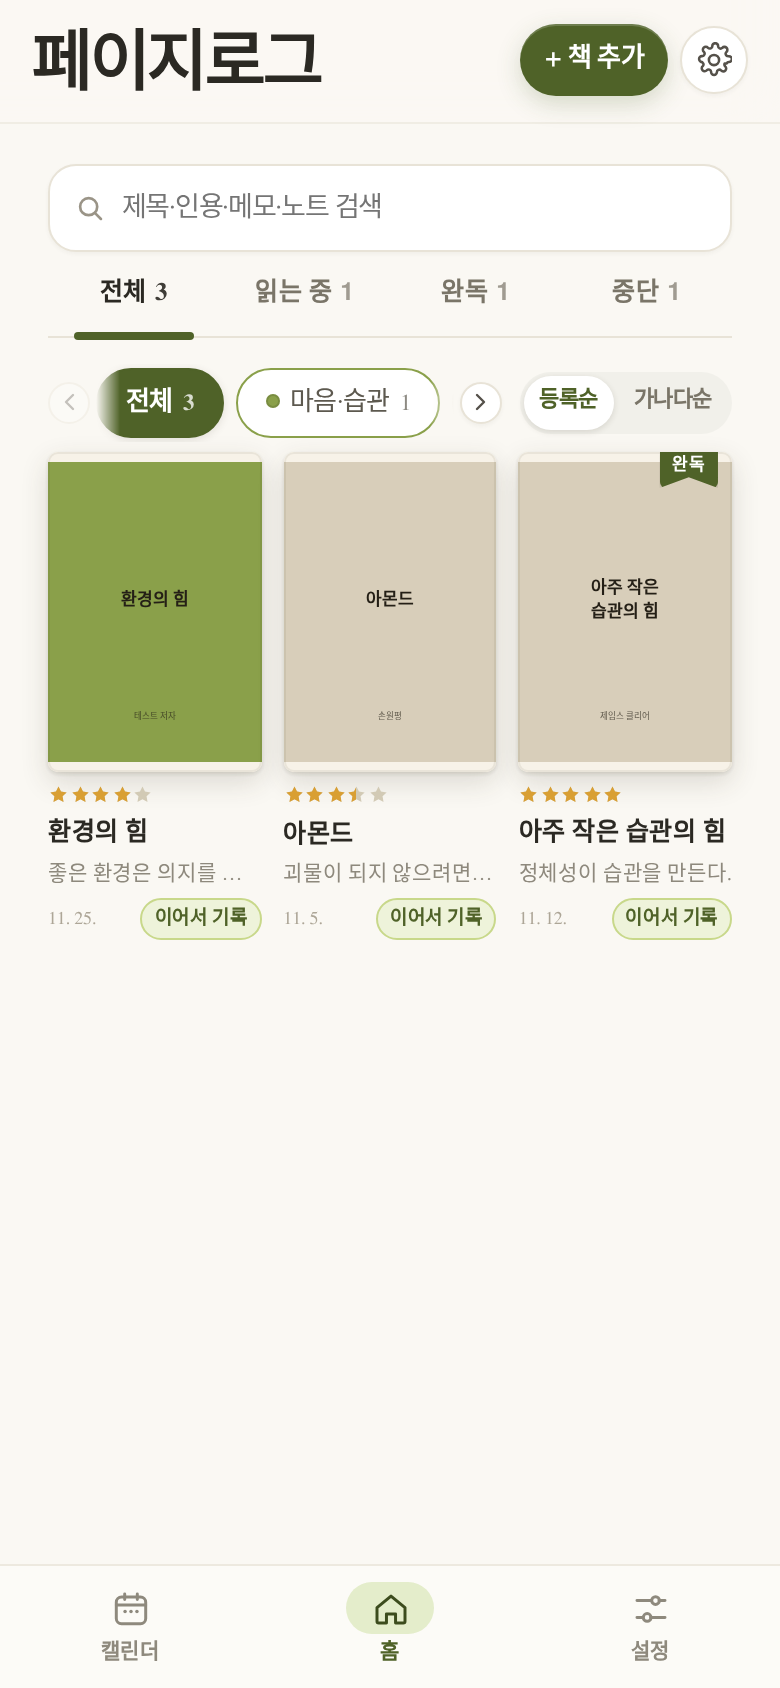
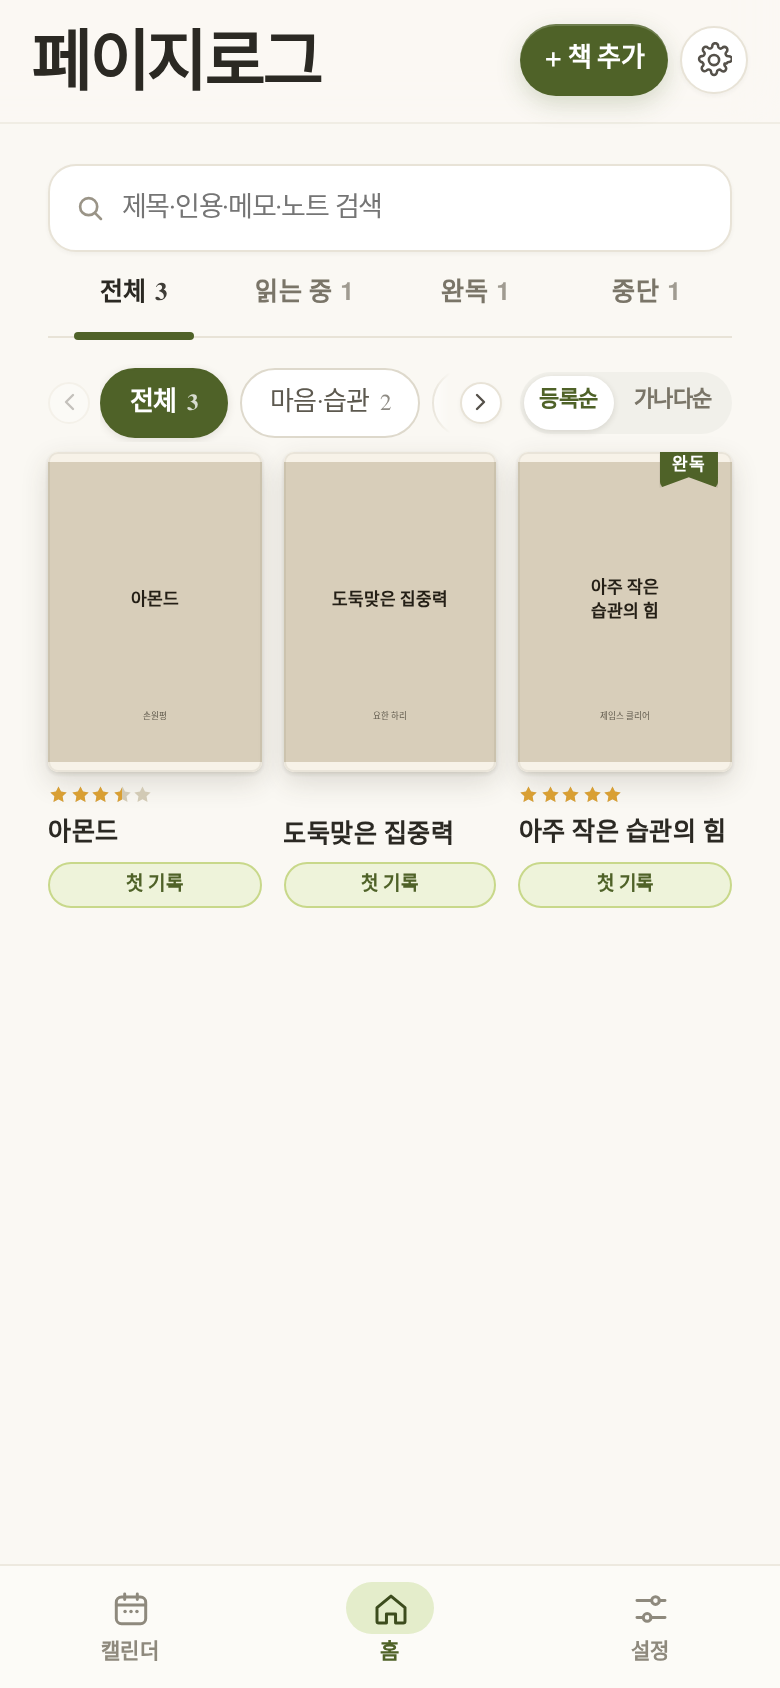
서재 카테고리 칩을 왼쪽 끝에 붙여 정렬: flex-start 고정·칩 축소 방지, 목록이 바뀌면 스크롤을 왼쪽 끝으로 되돌리고 양끝 마스크·화살표 간격 정리

Changed region(s): [[0.0615, 0.2156, 0.5846, 0.5545], [0.3692, 0.4621, 0.9538, 0.5545], [0.4308, 0.3389, 0.5846, 0.3697]]

diff --git a/index.html b/index.html
@@ -216,13 +216,22 @@ h1.app-title{margin:0;font-size:33px;line-height:1.05;font-weight:800;letter-spa
   .seg-btn{font-size:12.5px;gap:4px;padding:8px 1px 11px}
   .seg-btn::after{max-width:60px;height:3.5px}
 }
-.shelf-bar{display:flex;align-items:center;gap:9px;margin-top:13px}
-.chips-wrap{display:flex;align-items:center;gap:3px;flex:1 1 auto;min-width:0}
-.chips{display:flex;align-items:center;gap:8px;overflow-x:auto;overscroll-behavior-x:contain;scroll-behavior:smooth;
-  padding:2px 0;scrollbar-width:none;-ms-overflow-style:none;flex:1 1 auto;min-width:0}
+.shelf-bar{display:flex;align-items:center;justify-content:flex-start;gap:9px;margin-top:13px}
+.chips-wrap{display:flex;align-items:center;justify-content:flex-start;gap:5px;flex:1 1 auto;min-width:0}
+/* 칩은 언제나 왼쪽 끝(첫 칩 = 전체)에서부터 차곡차곡 쌓이고, 넘칠 때만 오른쪽으로 늘어납니다 */
+.chips{display:flex;align-items:center;justify-content:flex-start;align-content:flex-start;gap:8px;direction:ltr;
+  overflow-x:auto;overflow-y:hidden;overscroll-behavior-x:contain;
+  padding:2px 0;margin:0;scroll-padding-inline:0;scroll-behavior:auto;
+  scrollbar-width:none;-ms-overflow-style:none;flex:1 1 auto;min-width:0}
+.chips>.chip{flex:0 0 auto;margin-inline:0}
 .chips::-webkit-scrollbar{display:none;width:0;height:0}
-.chips.is-scroll{-webkit-mask-image:linear-gradient(90deg,transparent 0,#000 12px,#000 calc(100% - 12px),transparent 100%);
-  mask-image:linear-gradient(90deg,transparent 0,#000 12px,#000 calc(100% - 12px),transparent 100%)}
+/* 넘칠 때만 오른쪽 끝을 흐리게 — 스크롤이 0이면 왼쪽 끝은 절대 흐려지지 않습니다 */
+.chips.is-scroll{-webkit-mask-image:linear-gradient(90deg,#000 0,#000 calc(100% - 14px),transparent 100%);
+  mask-image:linear-gradient(90deg,#000 0,#000 calc(100% - 14px),transparent 100%)}
+.chips.is-scroll.from-left{-webkit-mask-image:linear-gradient(90deg,transparent 0,#000 12px,#000 calc(100% - 14px),transparent 100%);
+  mask-image:linear-gradient(90deg,transparent 0,#000 12px,#000 calc(100% - 14px),transparent 100%)}
+.chips.is-scroll.at-end{-webkit-mask-image:linear-gradient(90deg,transparent 0,#000 12px,#000 100%);
+  mask-image:linear-gradient(90deg,transparent 0,#000 12px,#000 100%)}
 .chips-nav{flex:0 0 auto;display:none;place-items:center;width:21px;height:21px;padding:0;border-radius:50%;
   background:var(--paper);border:1px solid var(--line);color:var(--ink-2);box-shadow:var(--shadow-sm);
   transition:opacity .15s,background .15s}
@@ -3432,18 +3441,66 @@ function renderSortUI(){
 }
 function curBook(){ for(var i=0;i<db.books.length;i++){ if(db.books[i].id===ui.currentId) return db.books[i]; } return null; }
 
-/* 카테고리 칩 가로 넘김 — 넘칠 때만 양끝 화살표 */
+/* 카테고리 칩 가로 넘김 — 넘칠 때만 양끝 화살표, 칩은 항상 왼쪽 끝에서 시작 */
+function chipsMaxScroll(c){ return Math.max(0, (c.scrollWidth||0) - (c.clientWidth||0)); }
 function updateChipsNav(){
   var chips=$('#categoryChips'), prev=$('#chipsPrev'), next=$('#chipsNext');
   if(!chips || !prev || !next) return;
-  var max=chips.scrollWidth-chips.clientWidth;
+  var max=chipsMaxScroll(chips);
   var on=max>1;
+  if(!on && chips.scrollLeft!==0) chips.scrollLeft=0;
+  var atStart=chips.scrollLeft<=1;
+  var atEnd=!on || chips.scrollLeft>=max-1;
   prev.classList.toggle('show',on);
   next.classList.toggle('show',on);
   chips.classList.toggle('is-scroll',on);
+  chips.classList.toggle('from-left',on && !atStart);
+  chips.classList.toggle('at-end',on && atEnd);
   if(!on) return;
-  prev.disabled=chips.scrollLeft<=1;
-  next.disabled=chips.scrollLeft>=max-1;
+  prev.disabled=atStart;
+  next.disabled=atEnd;
+}
+/* 첫 칩이 왼쪽 끝에 딱 붙어 있는지 확인하고, 어긋나면 스크롤을 0으로 되돌립니다 */
+function healChipsLeft(){
+  var c=$('#categoryChips');
+  if(!c) return;
+  if(c.scrollLeft>1) return;
+  var f=c.querySelector('.chip');
+  if(!f) return;
+  var off=f.getBoundingClientRect().left - c.getBoundingClientRect().left;
+  /* 스크롤은 0인데 첫 칩이 밀려 그려진 경우(모바일 스크롤 레이어 잔상) 한 번 다시 잡아 줍니다 */
+  if(off>1.5 && off<300){
+    c.scrollLeft=1;
+    c.scrollLeft=0;
+  }
+}
+function settleChipsScroll(){
+  var c=$('#categoryChips');
+  if(!c) return;
+  var max=chipsMaxScroll(c), sl=c.scrollLeft;
+  if(max<=1){ if(sl!==0) c.scrollLeft=0; }
+  else if(sl<0) c.scrollLeft=0;
+  else if(sl>max+1) c.scrollLeft=max;
+  if(sl<=1) healChipsLeft();
+  updateChipsNav();
+}
+/* 칩 목록을 다시 그린 뒤: 왼쪽 끝에서 시작 → 선택된 칩이 화면 밖이면 필요한 만큼만 보여 줍니다 */
+function restoreChipsView(){
+  var c=$('#categoryChips');
+  if(!c) return;
+  if(c.scrollLeft!==0) c.scrollLeft=0;
+  var act=c.querySelector('.chip.active');
+  var max=chipsMaxScroll(c);
+  if(act && max>1){
+    var l=act.offsetLeft, r=l+act.offsetWidth, vw=c.clientWidth;
+    if(l-6<0) c.scrollLeft=0;
+    else if(r+6>vw) c.scrollLeft=Math.min(max, r+6-vw);
+  }
+  updateChipsNav();
+  /* 폰트·레이아웃이 늦게 확정되는 경우까지 한 번 더 맞춥니다 */
+  if(window.requestAnimationFrame){
+    requestAnimationFrame(function(){ healChipsLeft(); updateChipsNav(); });
+  }
 }
 function scrollChips(dir){
   var c=$('#categoryChips');
@@ -3545,7 +3602,7 @@ function renderShelf(){
       +esc(c)+' <span class="cnt">'+cats[c]+'</span></button>';
   }).join('');
   $('#categoryChips').innerHTML=chipHtml;
-  updateChipsNav();
+  restoreChipsView();
 
   var list=books.filter(function(b){
     if(ui.status!=='all' && b.status!==ui.status) return false;
@@ -4541,7 +4598,15 @@ $('#categoryChips').addEventListener('click',function(e){
 $('#chipsPrev').addEventListener('click',function(){ scrollChips(-1); });
 $('#chipsNext').addEventListener('click',function(){ scrollChips(1); });
 $('#categoryChips').addEventListener('scroll',updateChipsNav,{passive:true});
-window.addEventListener('resize',function(){ updateChipsNav(); });
+$('#categoryChips').addEventListener('scrollend',settleChipsScroll,{passive:true});
+$('#categoryChips').addEventListener('touchend',function(){ setTimeout(settleChipsScroll,80); },{passive:true});
+window.addEventListener('resize',function(){ updateChipsNav(); settleChipsScroll(); });
+window.addEventListener('orientationchange',function(){ setTimeout(function(){ updateChipsNav(); settleChipsScroll(); },150); });
+window.addEventListener('pageshow',function(){ updateChipsNav(); settleChipsScroll(); });
+document.addEventListener('visibilitychange',function(){ if(!document.hidden){ updateChipsNav(); settleChipsScroll(); } });
+if(document.fonts && document.fonts.ready && document.fonts.ready.then){
+  document.fonts.ready.then(function(){ updateChipsNav(); settleChipsScroll(); }).catch(function(){});
+}
 $('#sortSwitch').addEventListener('click',function(e){
   var btn=e.target.closest('button[data-sort]');
   if(!btn) return;

diff --git a/README.md b/README.md
@@ -16,6 +16,7 @@
 - **서재(홈 탭 · 기본 첫 화면)**: 맨 위 **전체 검색창**, 상태 탭(`전체 / 읽는 중 / 완독 / 중단`, 권수 표시 · 얇은 가로선 위 **밑줄 탭**), 카테고리 칩, 정렬(`등록순 / 가나다순`), 표지 그리드(모바일 3열 / 데스크톱 5열)
   - 표지 아래에는 **마지막 기록 한 줄**과 **마지막 기록일**, 오른쪽 `이어서 기록` 버튼(기록이 없으면 `첫 기록`)이 함께 보입니다.
   - 상태 탭 구분선 아래 **13px 여백**을 두고, **카테고리 칩(왼쪽, 넘치면 가로 스크롤)** 과 **정렬 상자(오른쪽 고정)** 가 모바일·데스크톱 모두 **한 줄**에 놓입니다. 칩이 넘칠 때는 양끝에 작은 `‹` `›` 화살표가 나타나고(끝에서는 흐려짐), 손가락으로 옆으로 밀어 넘기는 것도 그대로 됩니다.
+  - 칩은 **언제나 왼쪽 끝(`전체` 칩)부터 왼쪽에 붙여 차곡차곡** 쌓이고, 새 카테고리는 **오른쪽으로만** 늘어놓니다(`justify-content: flex-start`, 칩은 줄어들지 않음). `‹` 화살표와 `전체` 칩 사이는 **5px**이고, 칩 목록이 바뀌거나(카테고리 추가·삭제, 상태 탭 이동) 창 폭이 바뀌면 스크롤 위치도 **왼쪽 끝으로 되돌려** 왼쪽에 빈 여백이 생기지 않습니다. 스크롤이 0일 때는 왼쪽 끝을 흐리게 하는 마스크도 걸지 않습니다.
   - 표지는 **잘리지 않고 전체가 보입니다**(`object-fit: contain`). 표지 비율이 칸과 다르면 여백이 생기고 그 자리는 부드러운 종이색으로 채웁니다.
   - **완독한 책**은 표지 오른쪽 위 모서리에 **`완독` 책갈피 리본**(테마 강조색)이 붙습니다.
   - 별점을 매긴 책은 **표지 바로 아래에 금색 별 5개**(꽉 찬 별·반쪽 별·빈 별)로 점수가 보입니다. 별점이 없는 책은 이 줄을 비워 둡니다.
